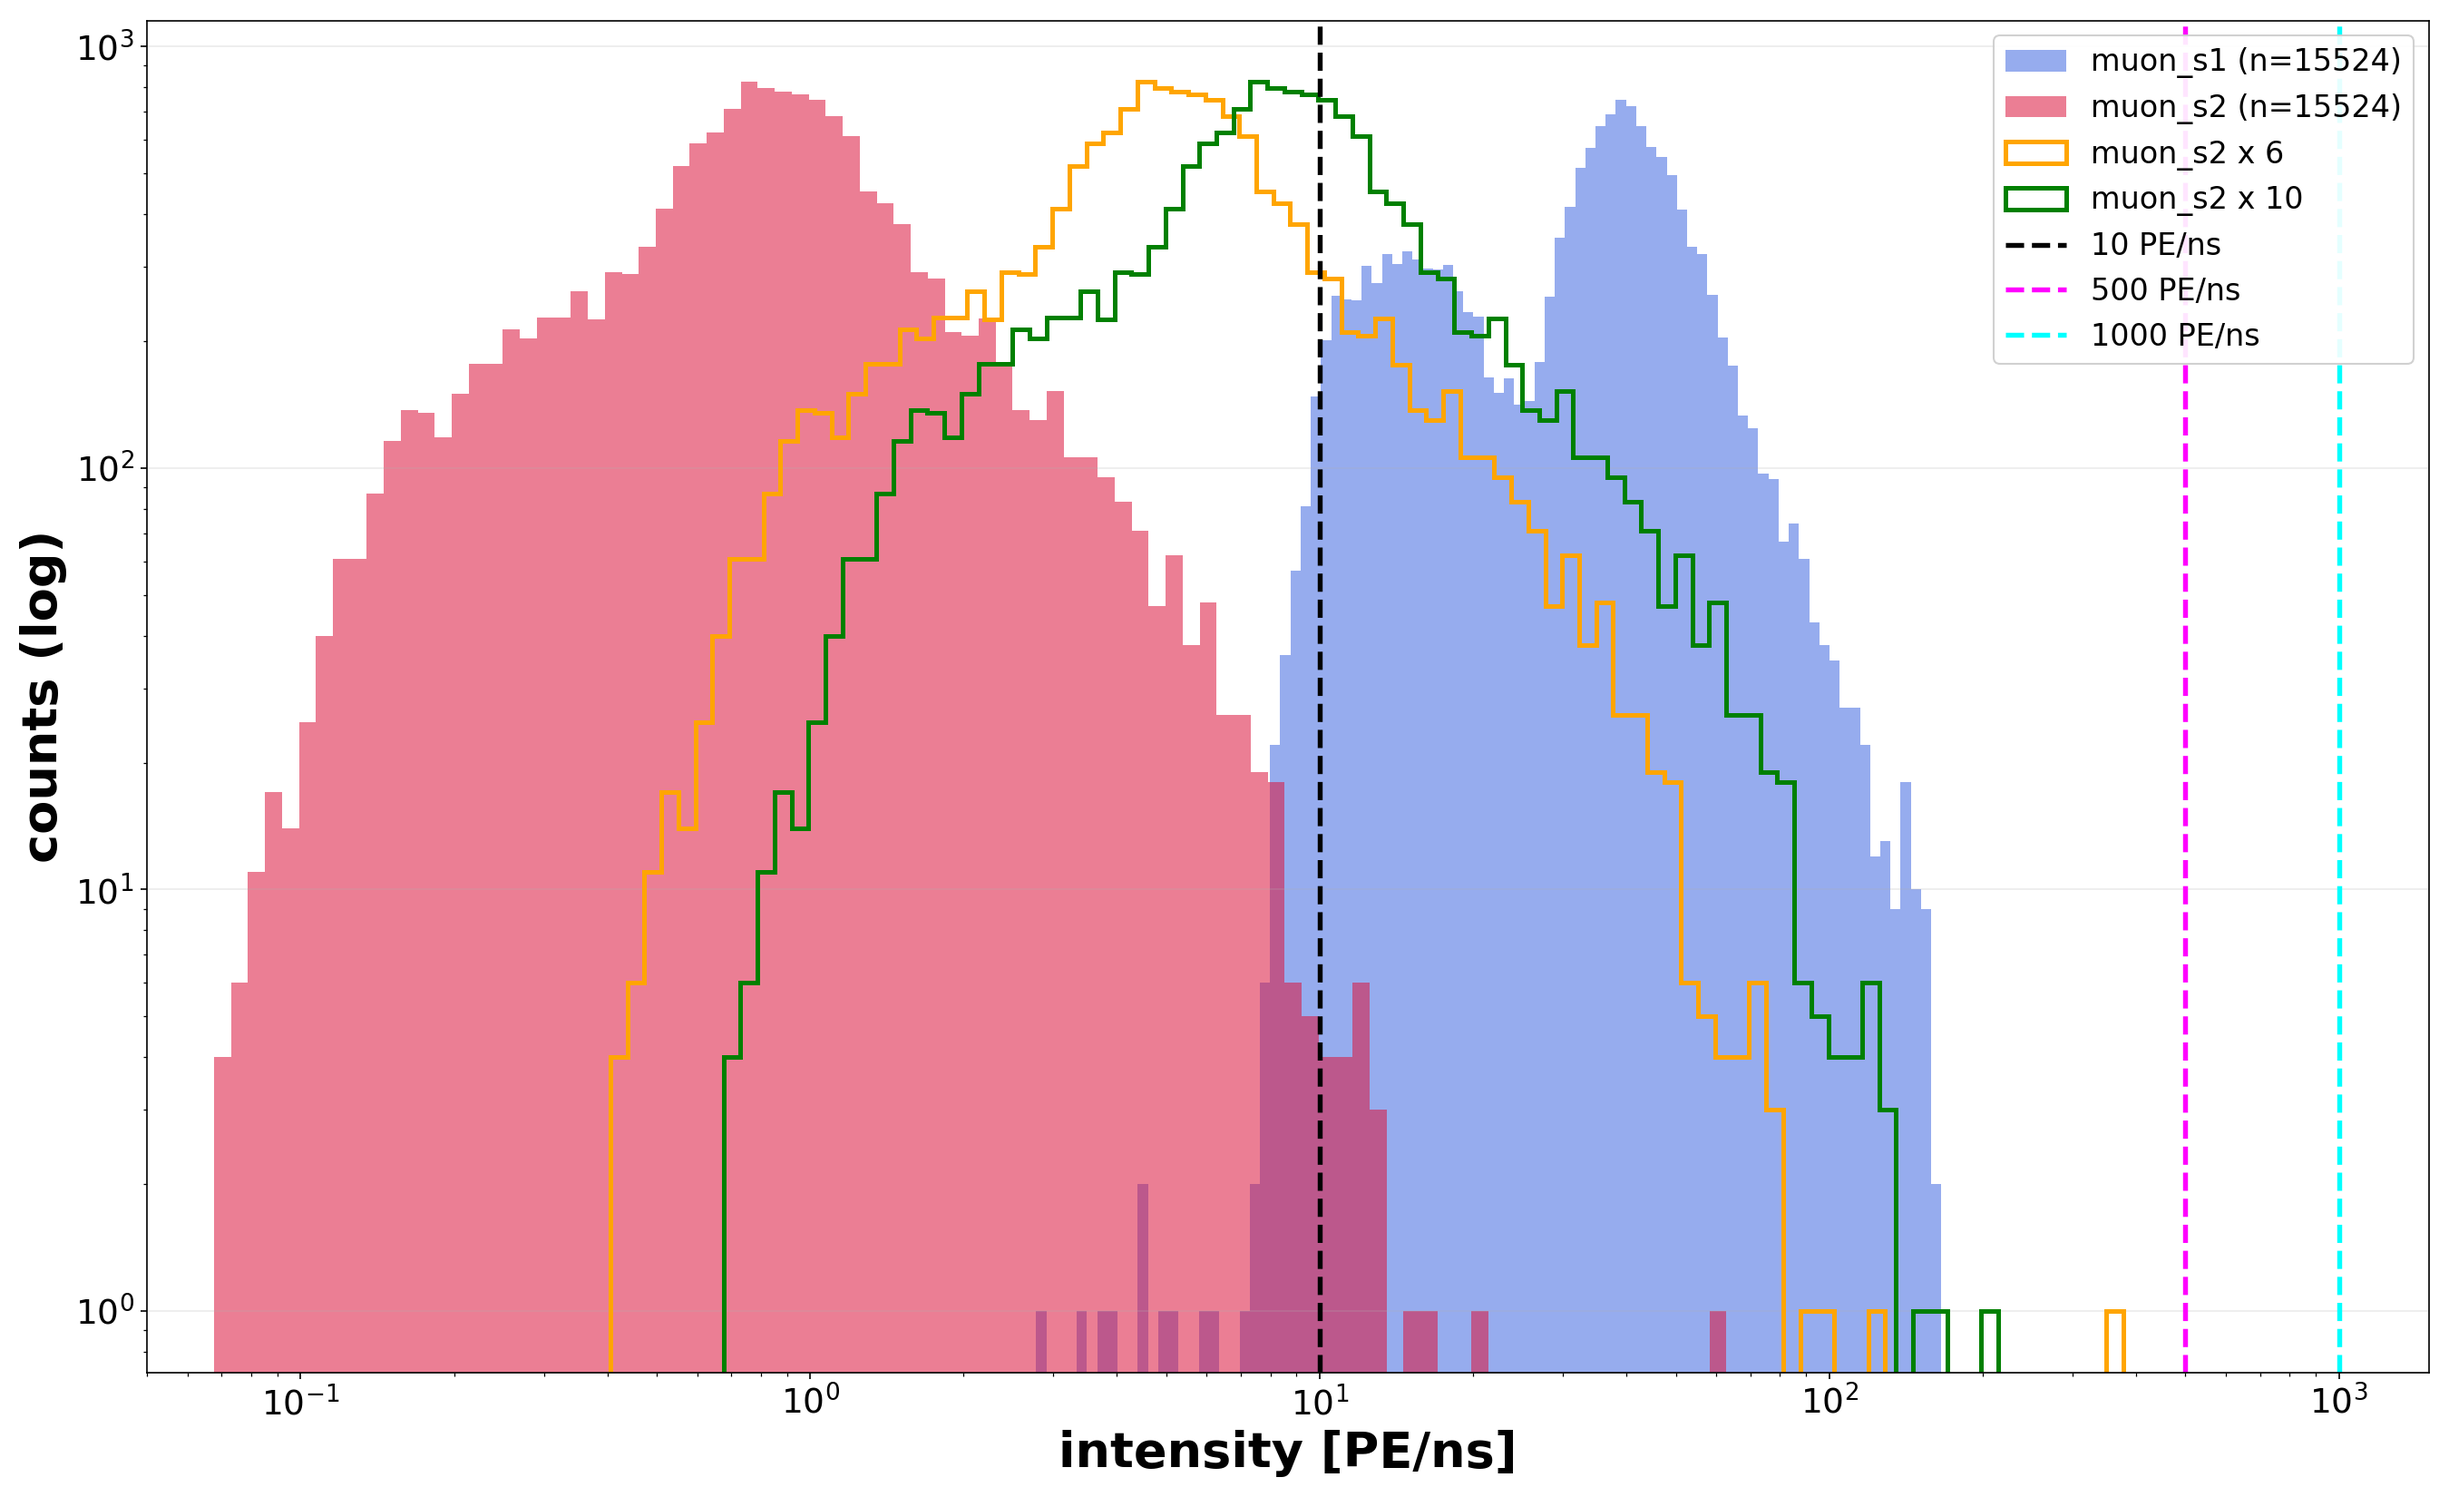
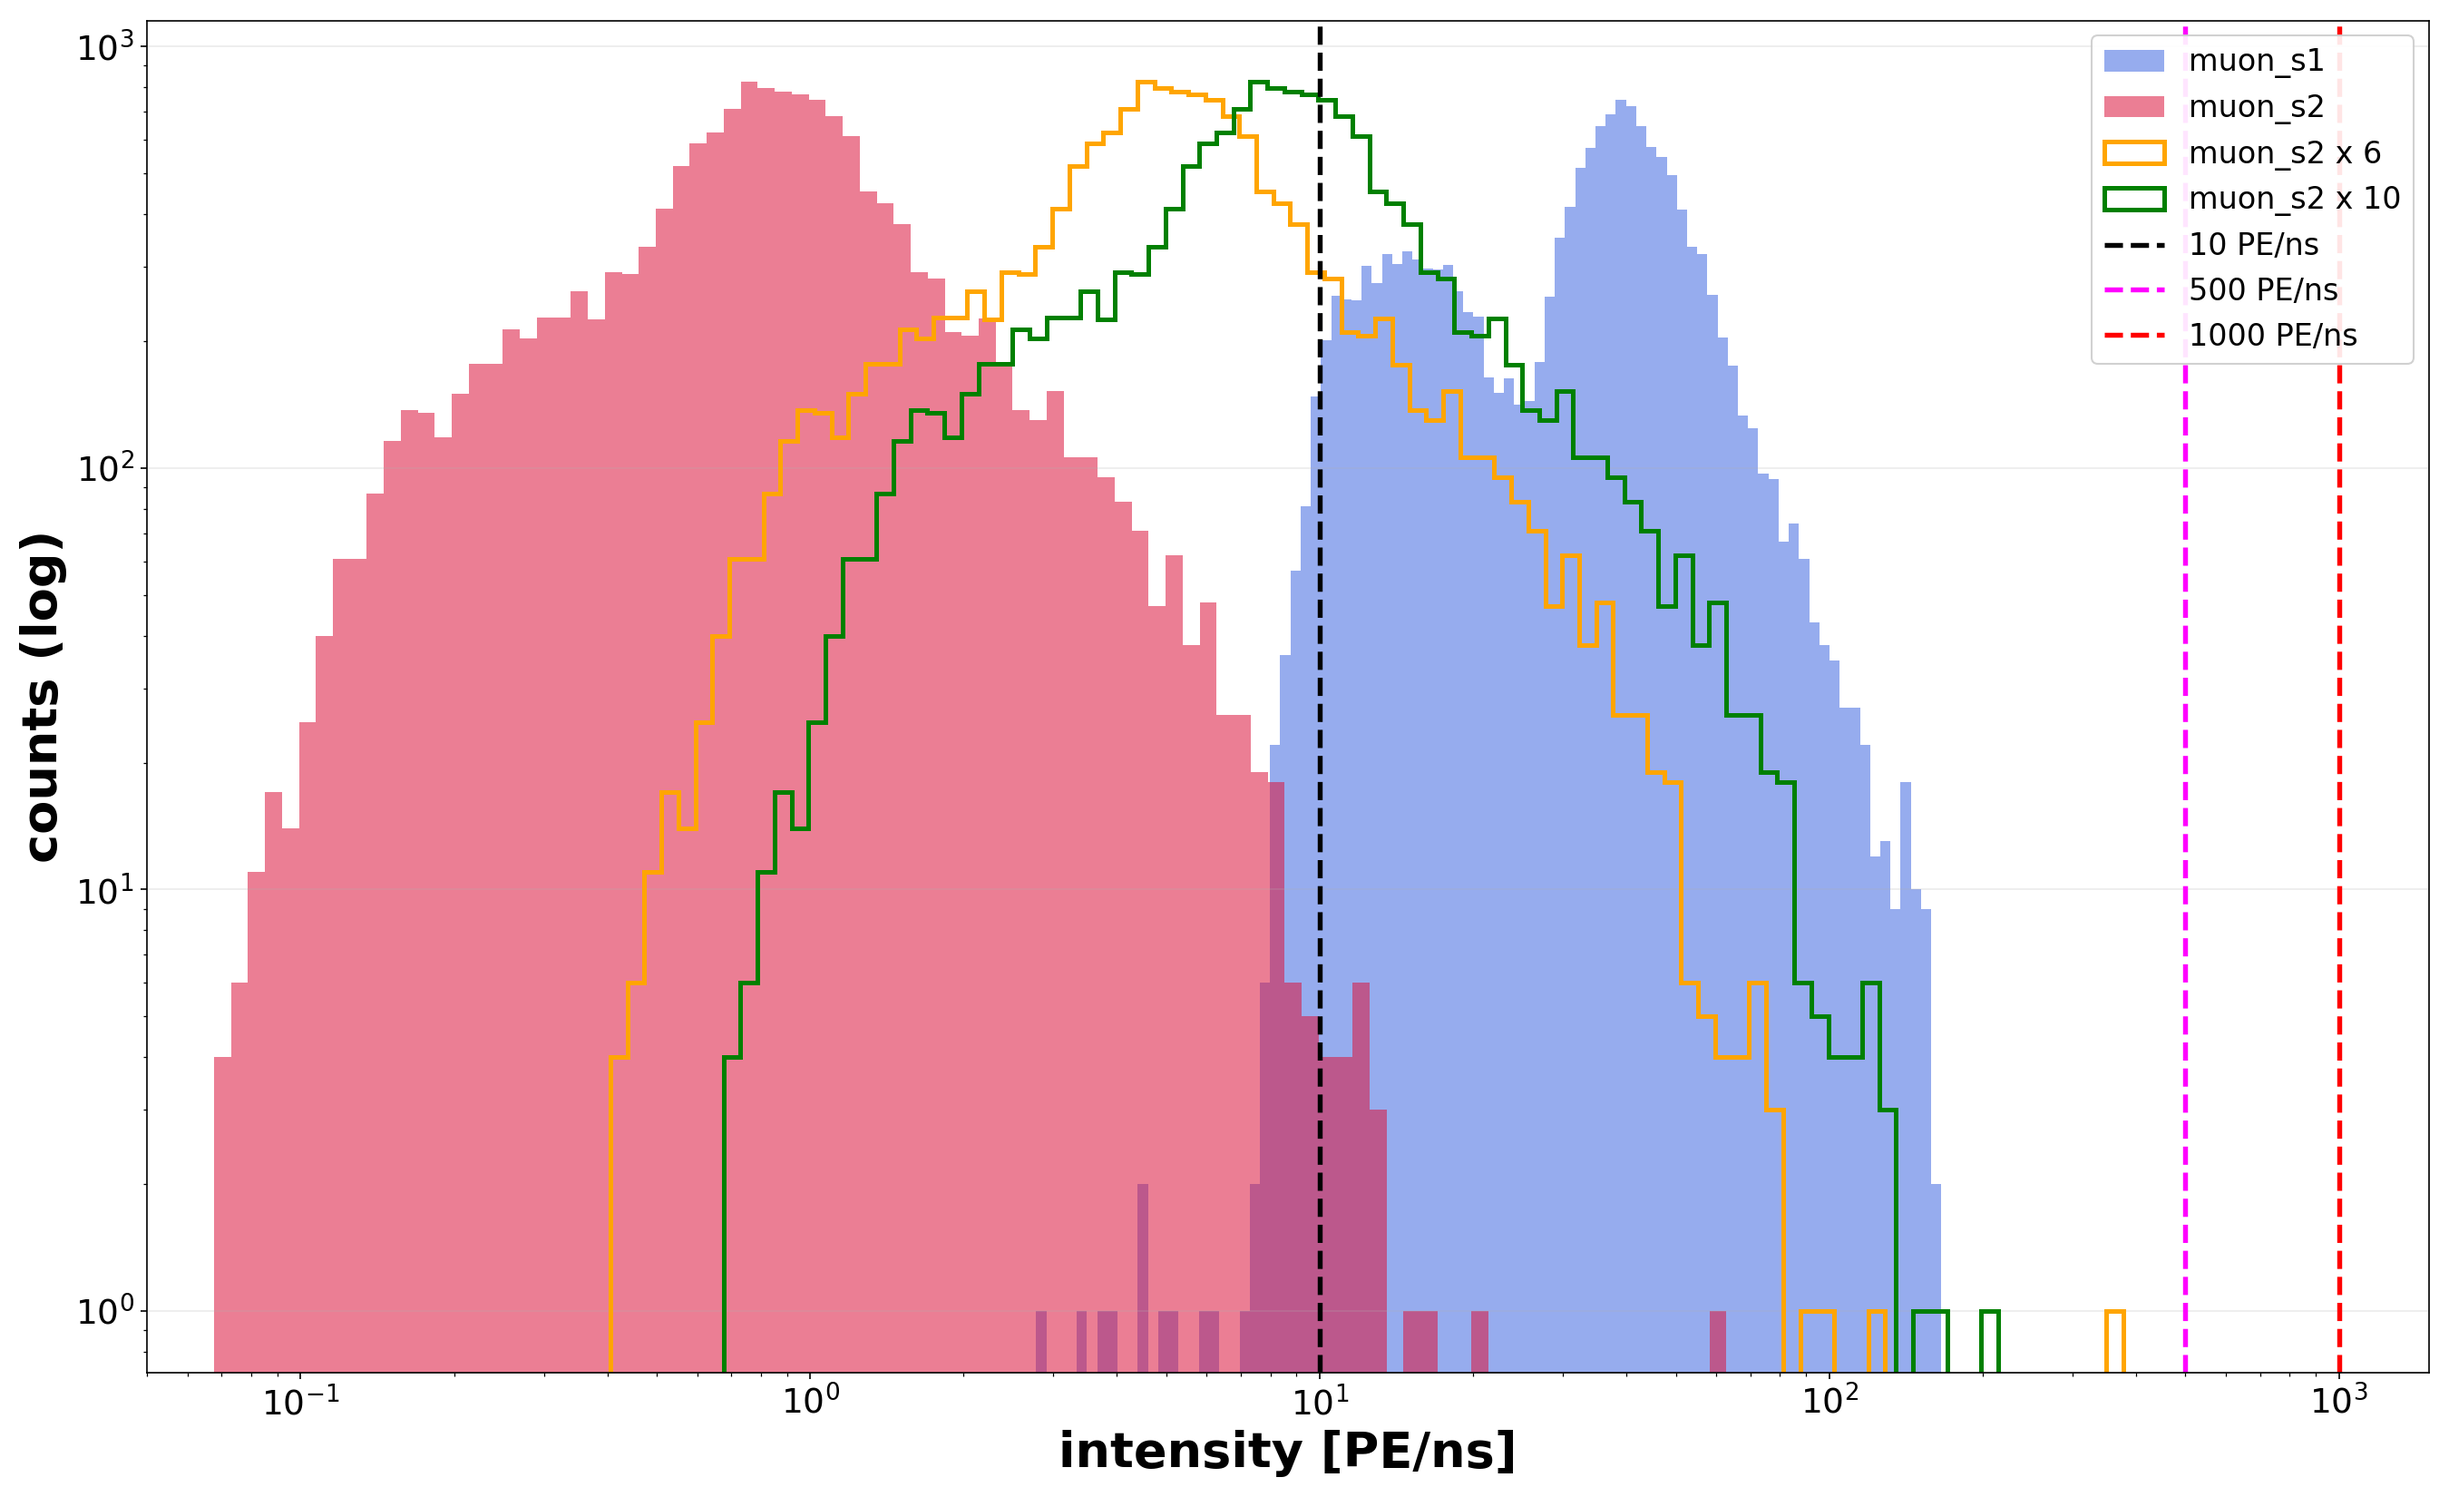
S1/S2 intensity: legend without parentheses; 1000 PE/ns line in red

Changed region(s): [[0.8089, 0.0309, 0.9644, 0.2473]]

diff --git a/scripts/plot_muon_s1s2_params.py b/scripts/plot_muon_s1s2_params.py
@@ -128,8 +128,8 @@ s2_int = (m["muon_s2_area_an"] / m["muon_s2_width_ns"])
 s2_int = s2_int.replace([np.inf, -np.inf], np.nan).dropna()
 s2_int = s2_int[s2_int > 0]
 curves = [
-    (s1_int, "royalblue", f"muon_s1 (n={len(s1_int)})", "stepfilled", 0.55),
-    (s2_int, "crimson", f"muon_s2 (n={len(s2_int)})", "stepfilled", 0.55),
+    (s1_int, "royalblue", "muon_s1", "stepfilled", 0.55),
+    (s2_int, "crimson", "muon_s2", "stepfilled", 0.55),
     (s2_int * 6.0, "orange", "muon_s2 x 6", "step", 1.0),
     (s2_int * 10.0, "green", "muon_s2 x 10", "step", 1.0),
 ]
@@ -137,7 +137,7 @@ for v, color, lab, htype, alpha in curves:
     bins = np.logspace(np.log10(v.min()), np.log10(v.max()), 90)
     ax.hist(v, bins=bins, color=color, alpha=alpha, histtype=htype, lw=2.4,
             label=lab)
-for x, color in [(10.0, "black"), (500.0, "magenta"), (1000.0, "cyan")]:
+for x, color in [(10.0, "black"), (500.0, "magenta"), (1000.0, "red")]:
     ax.axvline(x, color=color, ls="--", lw=2.6, label=f"{x:g} PE/ns")
 ax.set_xscale("log")
 ax.set_yscale("log")
